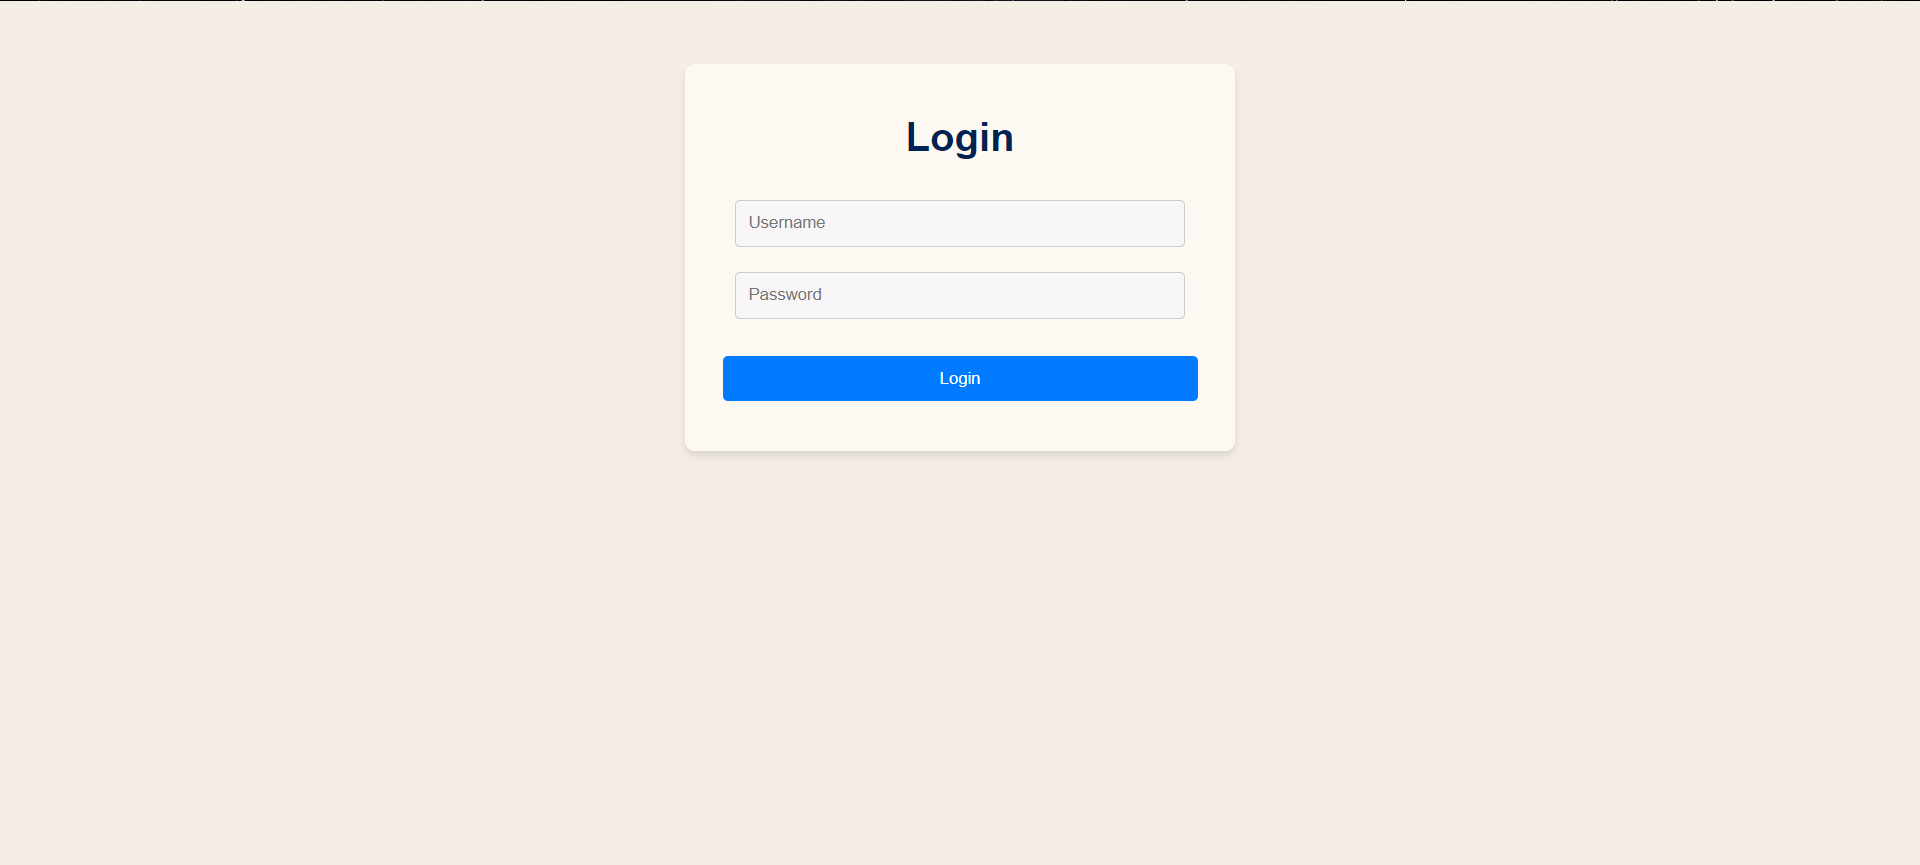
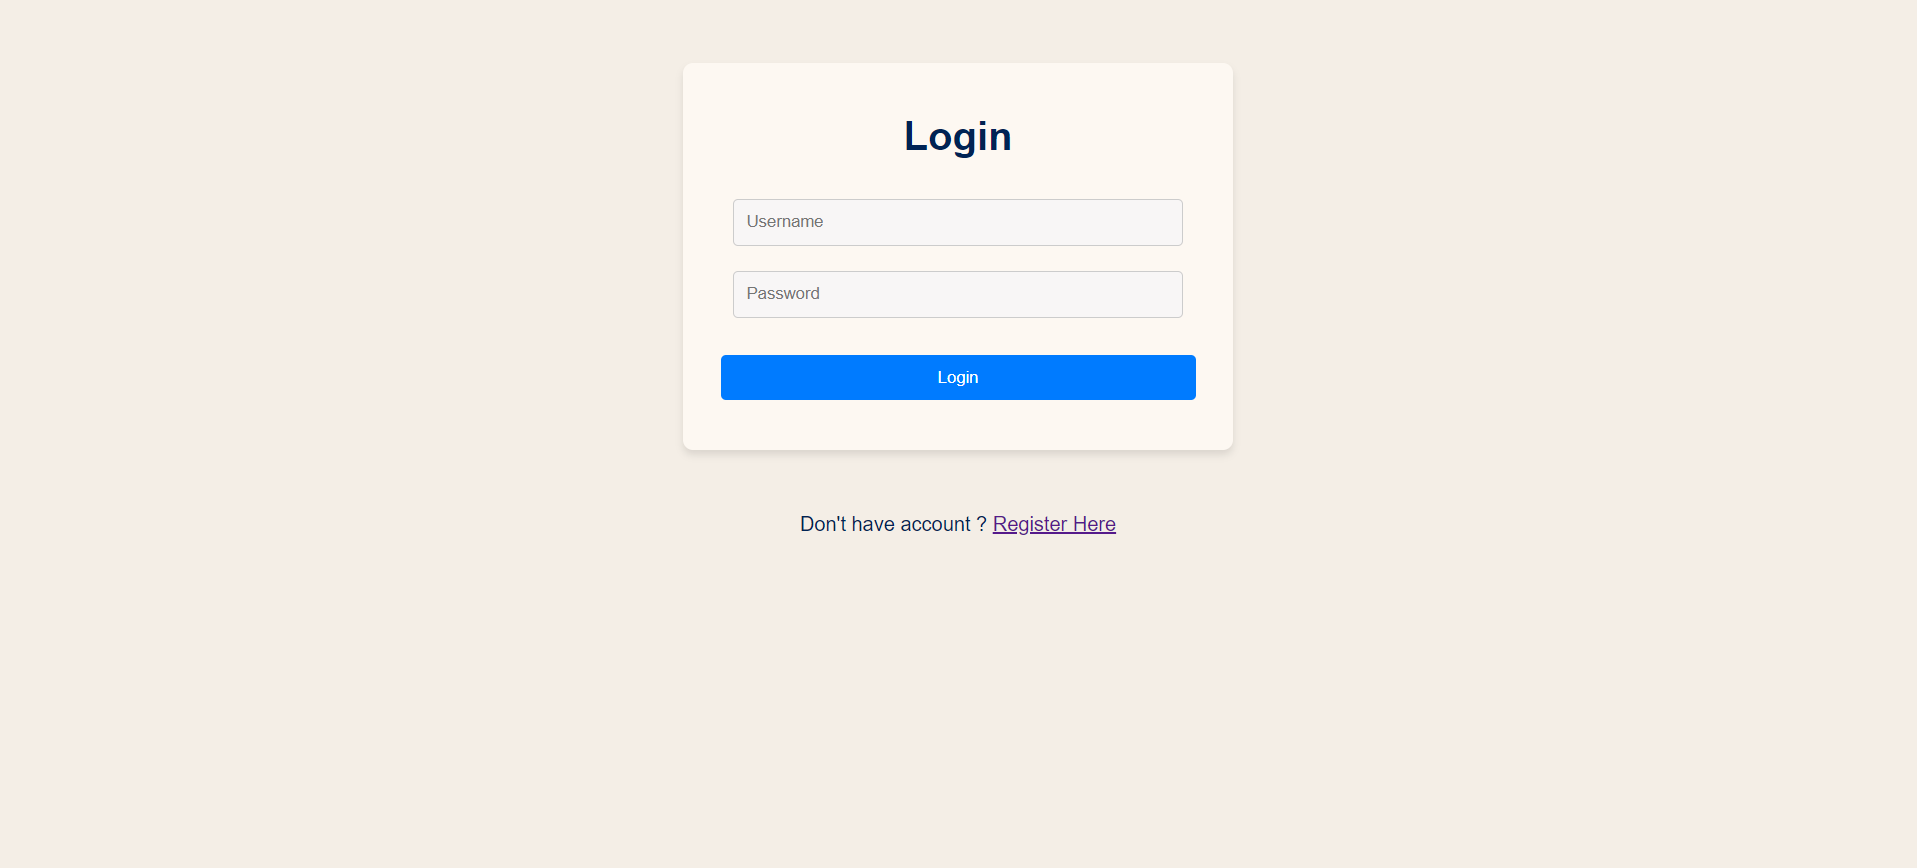
Customized user registration

diff --git a/README.md b/README.md
@@ -69,7 +69,8 @@ The default port numbers can be changed during the documentation. Refer document
 Here are some of the screenshot of the full stack web application DfitKlub.
 
 1. Login Page :<br><br> <img src="./Screenshots/Login.png"><br><br>
-2. Landing Page :<br><br> <img src="./Screenshots/Notes.png"><br><br>
-3. Create Note :<br><br> <img src="./Screenshots/Create-Note-Form.png"><br><br>
-4. Note Creation : <br><br> <img src="./Screenshots/Note-Create.png"><br><br>
-5. Delete Note : <br><br> <img src="./Screenshots/Note-Delete.png">
+2. Login Page :<br><br> <img src="./Screenshots/Registration.png"><br><br>
+3. Landing Page :<br><br> <img src="./Screenshots/Notes.png"><br><br>
+4. Create Note :<br><br> <img src="./Screenshots/Create-Note-Form.png"><br><br>
+5. Note Creation : <br><br> <img src="./Screenshots/Note-Create.png"><br><br>
+6. Delete Note : <br><br> <img src="./Screenshots/Note-Delete.png">
